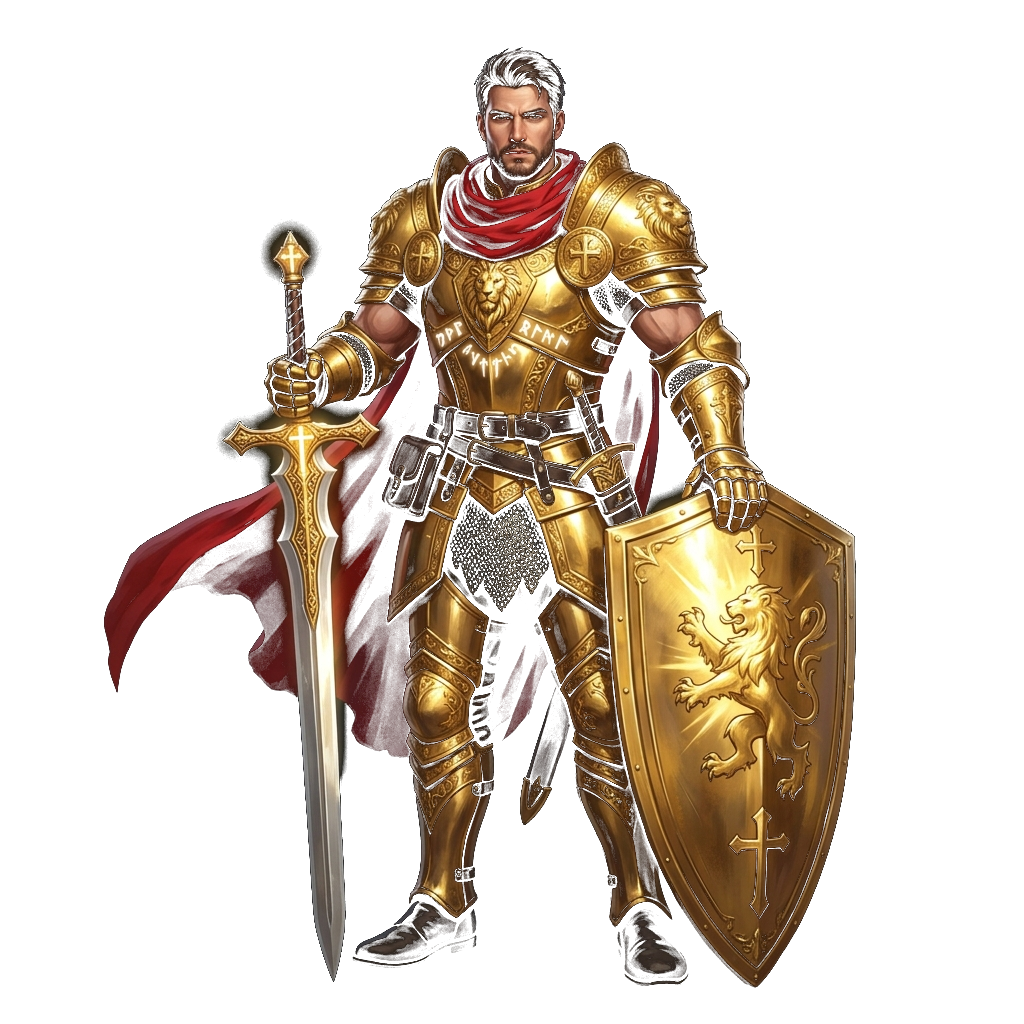
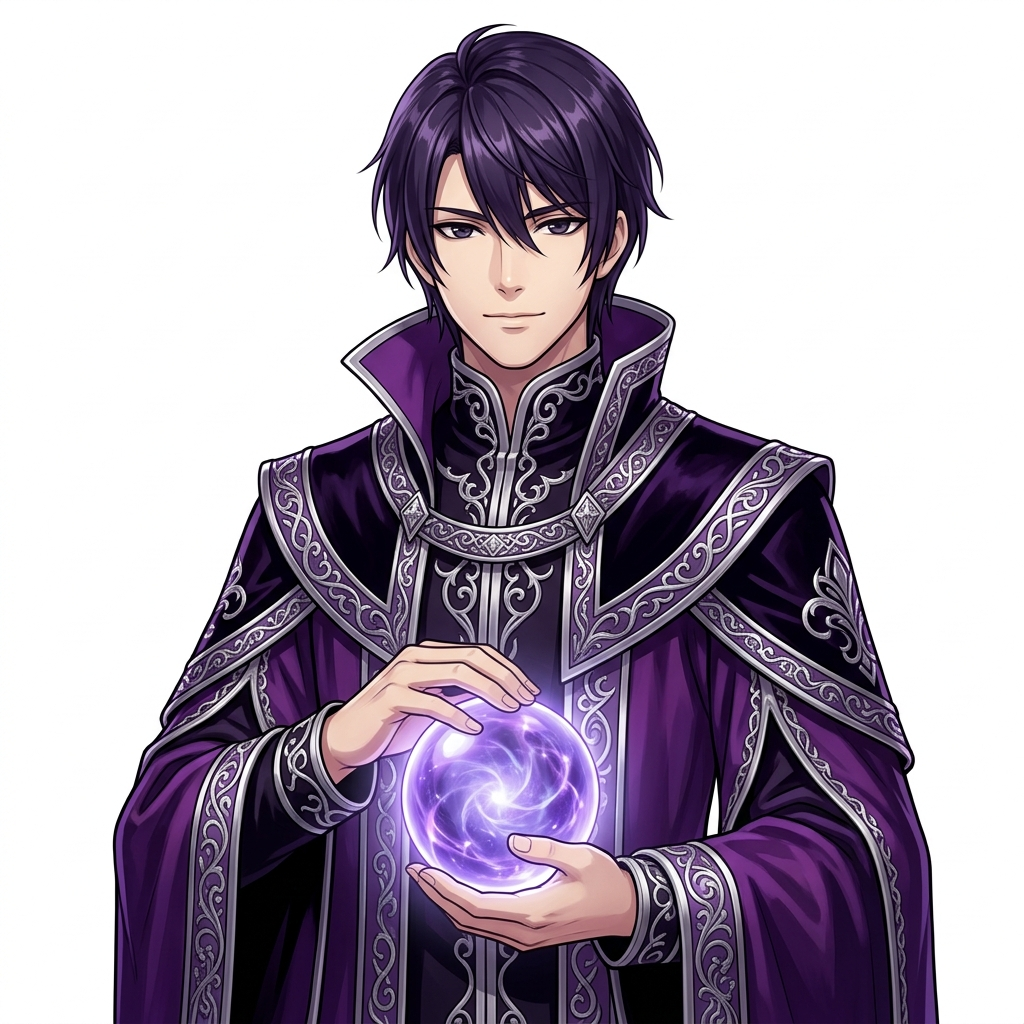
fix: 重新生成阿斯兰全新暗紫神魔秘法军师立绘(紫袍+魔法光球)，彻底摆脱金铠重甲战圣骑士形象

diff --git a/src/app.js b/src/app.js
@@ -35,9 +35,9 @@ const CHARACTERS = {
     name: '阿斯兰 (我)',
     role: '卧底魔王',
     avatar: '魔',
-    image: './assets/char_aslan_knight.png',
-    panickedImage: './assets/char_aslan_knight.png',
-    knightImage: './assets/char_aslan_knight.png',
+    image: './assets/char_aslan.png',
+    panickedImage: './assets/char_aslan.png',
+    knightImage: './assets/char_aslan.png',
     color: '#c77dff',
     tagIcon: '👑',
     desc: '第七代魔王 · 伪装成流浪圣骑士',
